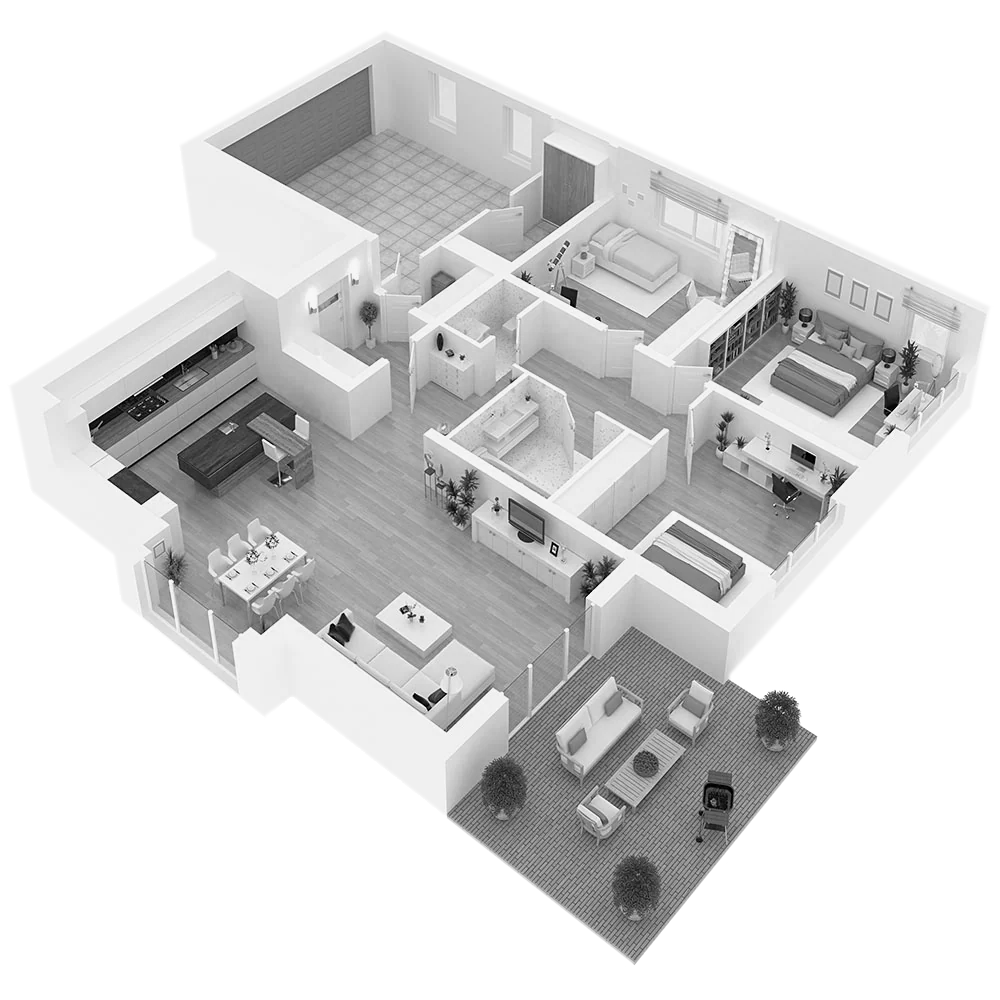
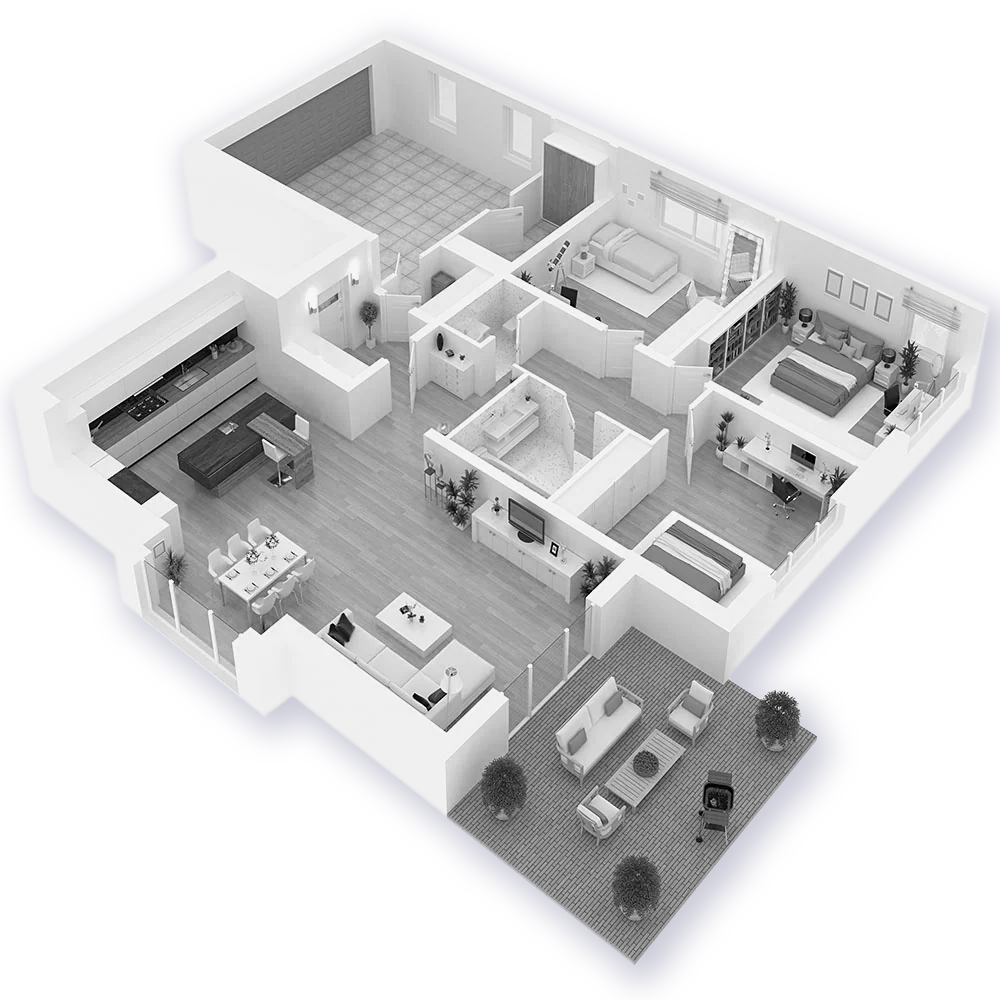
add garden img and refactor prompt order

diff --git a/src/components/axonometric/axonometric.tsx b/src/components/axonometric/axonometric.tsx
@@ -2,12 +2,13 @@
 const kitchen = "/imgs/kitchen.png";
 const bedRoom = "/imgs/bed_room.png";
 const livingRoom = "/imgs/living_room.png";
+const garden = "/imgs/garden.png";
 import { useEffect, useState } from "react";
 import "./axonometrix.scss"
 const background = "/imgs/axonometric.png";
 
 interface ChildProps {
-  response: "LIVING_ON" | "LIVING_OFF" | "KITCHEN_ON" | "KITCHEN_OFF" | "BEDROOM_ON"| "BEDROOM_OFF" | null;
+  response: "LIVING_ON" | "LIVING_OFF" | "KITCHEN_ON" | "KITCHEN_OFF" | "BEDROOM_ON"| "BEDROOM_OFF" | "GARDEN_ON"| "GARDEN_OFF" | null;
   }
 
   const Axonometric = ({ response }: ChildProps) =>{
@@ -15,14 +16,12 @@ interface ChildProps {
     const [kitchenLight, setKitchenLight] = useState(false);
     const [livingLight, setLivingLight] = useState(false);
     const [bedRoomLight, setBedRoomLight] = useState(false);
+    const [gardenLight, setGardenLight] = useState(false);
 
     useEffect(() => {
       if (!response) return;
 
-
       const normalizedResponse = response.trim();
-
-      console.log("Response desde child component:", response);
     
       // Mapa de acciones para actualizar los estados de las luces
       const actions = {
@@ -32,6 +31,8 @@ interface ChildProps {
         "KITCHEN_OFF": () => setKitchenLight(false),
         "BEDROOM_ON": () => setBedRoomLight(true),
         "BEDROOM_OFF": () => setBedRoomLight(false),
+        "GARDEN_ON": () => setGardenLight(true),
+        "GARDEN_OFF": () => setGardenLight(false),
       };
     
       // Ejecuta la acción correspondiente al response, sin afectar el otro estado
@@ -51,6 +52,9 @@ interface ChildProps {
         )}
         {bedRoomLight && (
          <img className="sprite" src={bedRoom}/>
+        )}
+        {gardenLight && (
+         <img className="sprite" src={garden}/>
         )}
         <img className="background" src={background}></img>
     </>

diff --git a/src/components/speech.tsx b/src/components/speech.tsx
@@ -52,7 +52,7 @@ useEffect(() => {
     //const lowerTranscript = transcript.toLowerCase(); // Normalizar el texto
     try {
 
-      const fullPrompt = `I have a home automation system in which I have defined two environments, LIVING, KITCHEN, BEDROOM, each of which has lights that can be turned on or off via a voice command. The possible responses will be LIVING_ON, LIVING_OFF, KITCHEN_ON, KITCHEN_OFF, BEDROOM_ON, BEDROOM_OFF. What would the response be (among those defined above) if the input voice command is: '${prompt}'? Remember to respond with only one word (the possible responses)."`;
+      const fullPrompt = `I have a home automation system with four environments: LIVING, KITCHEN, BEDROOM, and GARDEN. Each environment has lights that can be turned on or off using a voice command. The possible responses are: LIVING_ON, LIVING_OFF, KITCHEN_ON, KITCHEN_OFF, BEDROOM_ON, BEDROOM_OFF, GARDEN_ON, and GARDEN_OFF. Given the input voice command: '${prompt}', what would the response be? Please reply with only one word from the list of possible responses.`;
 
         const data = {
             model: "gemma2:2b", // Modelo utilizado
